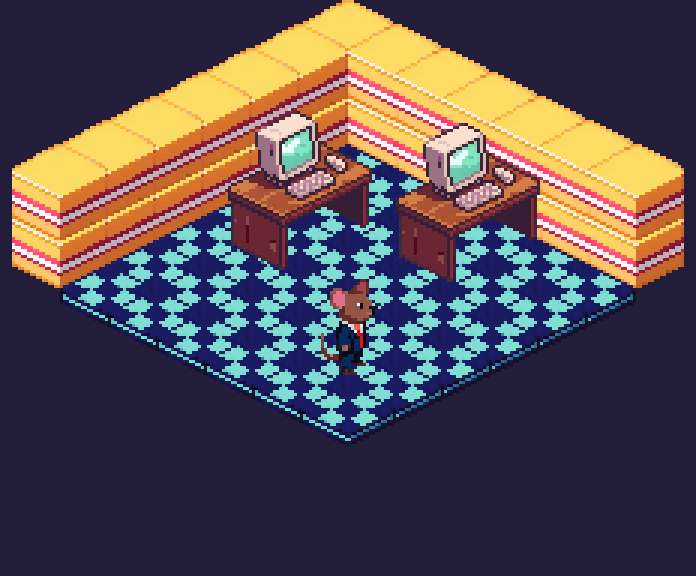
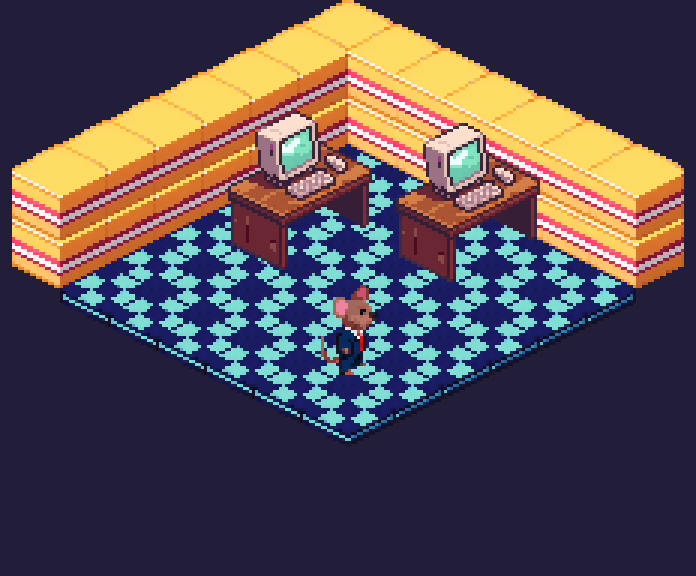
pixel-site: Phase 1 complete, 3 animated style samples
All 3 rats now have idle and walk (south-east). compare.png and
compare.gif show the styles side by side; README.md has one line per
style and the file map. manifest.json covers all 18 generations.

Claude-Session: https://claude.ai/code/session_016jp3VCig7Xm6EddmzzoG7r

Changed region(s): [[0.4526, 0.4688, 0.5431, 0.6562]]

diff --git a/apps/pixel-site/style-samples/README.md b/apps/pixel-site/style-samples/README.md
@@ -1,0 +1,27 @@
+# Phase 1 style samples
+
+Three candidate looks for the RAT RACE pixel site. Each one has a rat in a suit (8 directions, idle and walk facing south-east) and a small office set (floor tile, wall block, desk). Everything was generated with the PixelLab MCP tools; `manifest.json` has the exact call and PixelLab id for every file.
+
+![side by side](compare.png)
+
+| Style | One line | Rat size |
+|---|---|---|
+| **A Blueprint** (`a-blueprint/`) | Pale and clean, soft selective outline, high detail. Airy, closest to a bright office floor. | 68px canvas |
+| **B Arcade** (`b-arcade/`) | Chunky 16-bit, black outline, flat bold colors, chibi rat. Most readable when thousands of rats are on screen. | 48px canvas |
+| **C Noir** (`c-noir/`) | Dark and lineless with painterly shading and CRT green glow. Strongest mood, hardest to read small. | 68px canvas |
+
+Animated: `compare.gif` (all three rooms, idle then walk), and per style `room.gif`, `preview_idle.gif`, `preview_walk.gif`.
+
+## Files per style
+
+| File | What |
+|---|---|
+| `floor.png`, `wall.png` | `create_isometric_tile`, 32px (thin tile, block) |
+| `desk.png` | `create_map_object`, 64x64 |
+| `rat_rotations.png` | `create_character` standard mode, 8 rotations in order S, SE, E, NE, N, NW, W, SW |
+| `rat_idle.png`, `rat_walk.png` | `animate_character` template `breathing-idle` (4 frames) and `walking-8-frames` (8 frames), south-east |
+| `room.png`, `room.gif`, `preview_*.gif` | Layouts and upscales of the files above. No extra art. |
+
+## Cost
+
+18 PixelLab generations for all three styles (9 tiles and desks, 3 characters, 6 one-direction animations).
